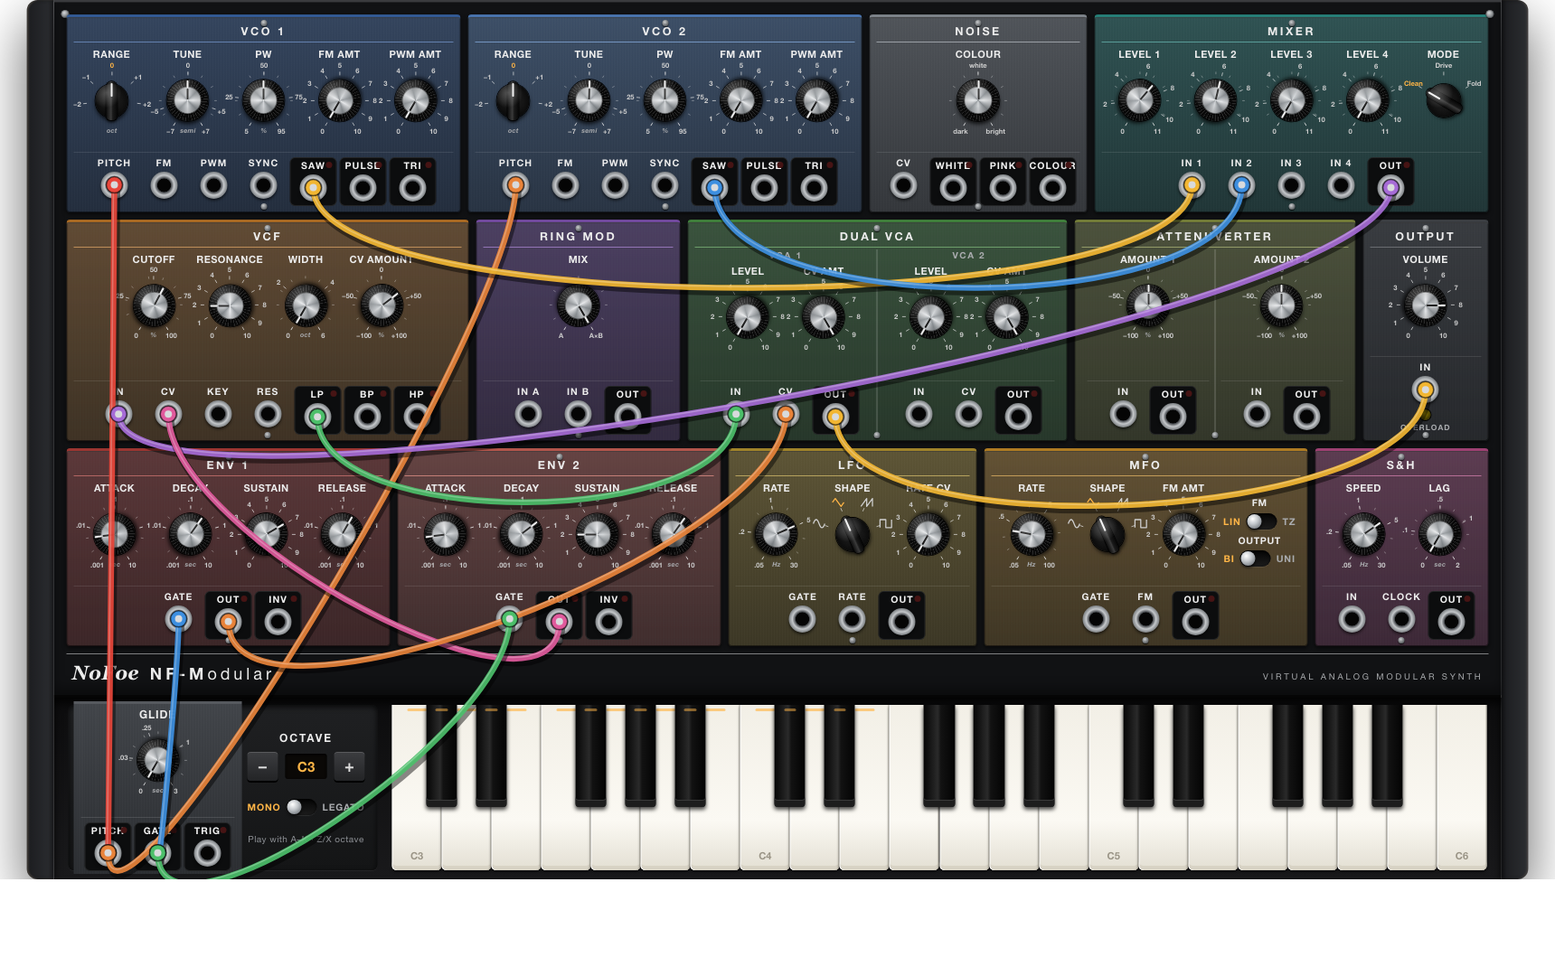
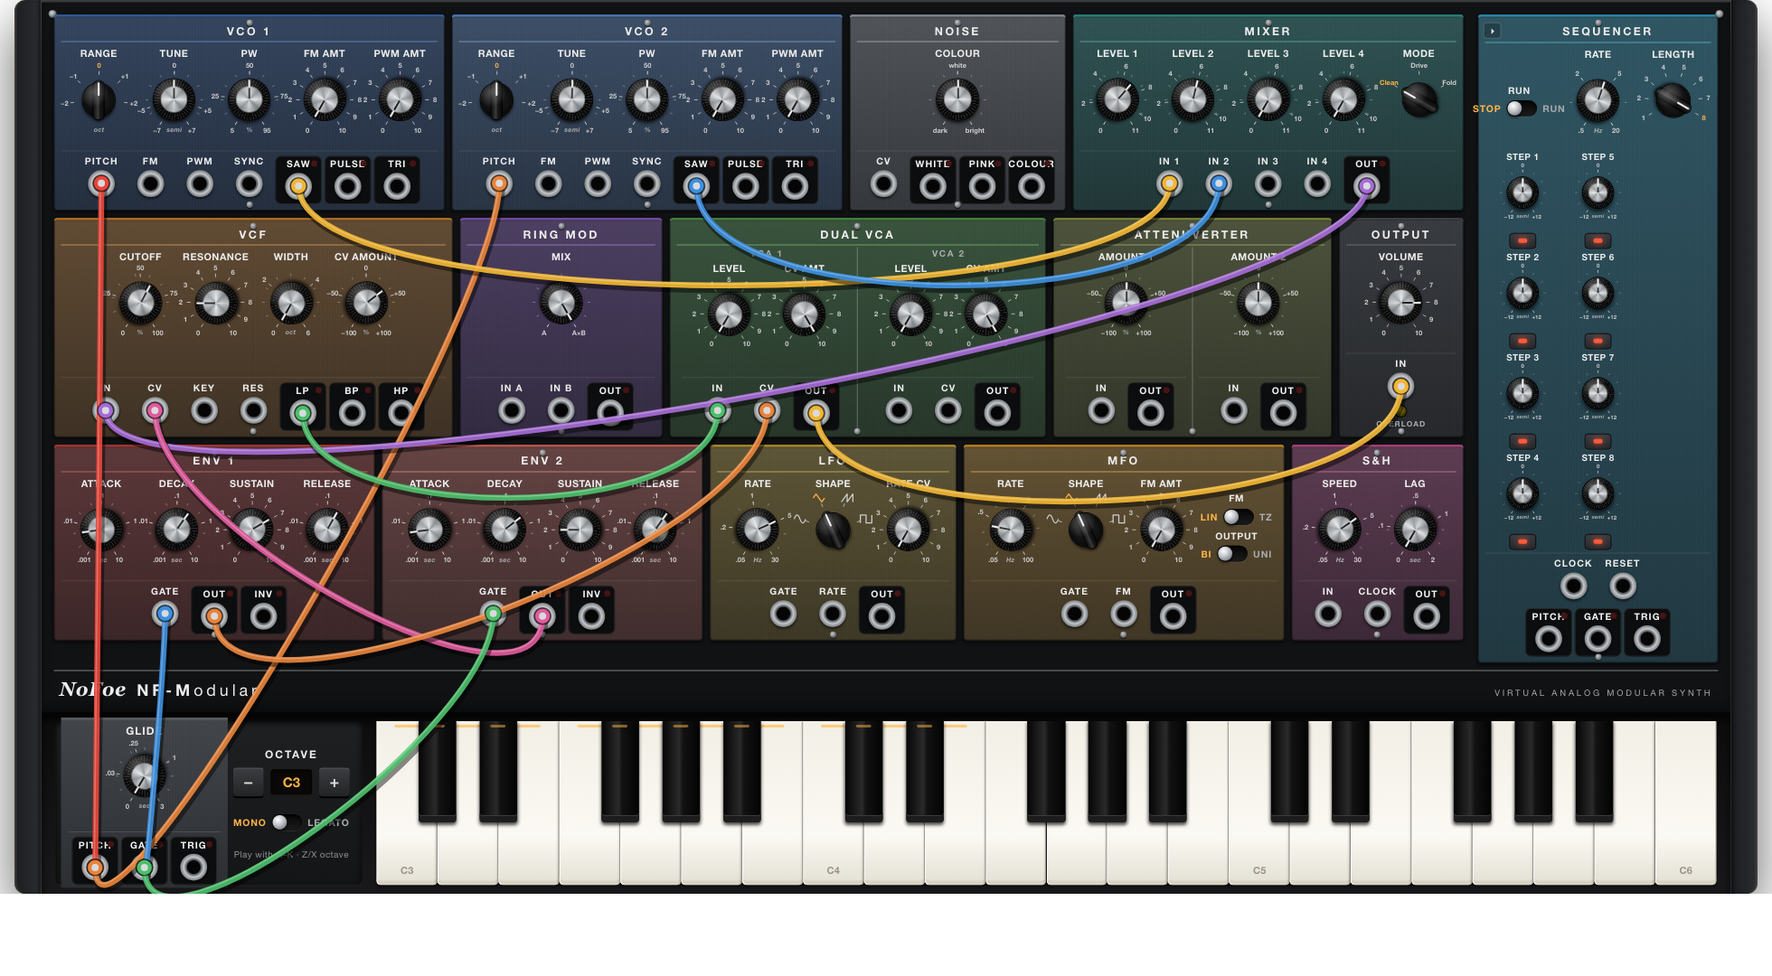
NF-Modular: an 8-step sequencer, in a folding column beside the rack
Eight steps of pitch (snapped to semitones) and on/off, Run/Stop, Rate (its own
clock), Length 1-8, Clock and Reset inputs, Pitch/Gate/Trig outputs; the playing
step lights up. It sits in a column the height of the rack's three rows, using
spare screen width, and folds to a thin strip (remembered). New Sequence preset;
help for every control. New panel pieces: side columns, foldable modules and lit
step buttons.

diff --git a/js/worklet/nfmod-processor.js b/js/worklet/nfmod-processor.js
@@ -100,7 +100,7 @@ class VCO {
 
 const OUTPUTS = ['kb.pitch', 'kb.gate', 'kb.trig', 'vco1.saw', 'vco1.sq', 'vco1.tri', 'vco2.saw', 'vco2.sq', 'vco2.tri',
   'noise.white', 'noise.pink', 'noise.col', 'mix.out', 'filt.out', 'filt.bp', 'filt.hp', 'env1.out', 'env1.inv', 'env2.out', 'env2.inv',
-  'lfo.out', 'lfo2.out', 'sh.out', 'vca1.out', 'vca2.out', 'ring.out', 'att.out1', 'att.out2'];
+  'lfo.out', 'lfo2.out', 'sh.out', 'vca1.out', 'vca2.out', 'ring.out', 'att.out1', 'att.out2', 'seq.pitch', 'seq.gate', 'seq.trig'];
 
 function lfoWave(shape, ph) {
   return shape === 'saw' ? 2 * ph - 1 : shape === 'square' ? (ph < 0.5 ? 1 : -1)
@@ -136,6 +136,7 @@ class NFModProcessor extends AudioWorkletProcessor {
     this.tolTune = [(Math.random() * 2 - 1) * TUNE_TOL, (Math.random() * 2 - 1) * TUNE_TOL];
     this.tolCut = Math.log2(tol(0.02)); this.tolLfo = tol(0.01); this.tolLfo2 = tol(0.01); this.tolSh = tol(0.01);
     this.drift = [0, 1].map(() => ({ v: (Math.random() * 2 - 1) * DRIFT_OCT, t: (Math.random() * 2 - 1) * DRIFT_OCT }));
+    this.seqStep = 0; this.seqPh = 0; this.seqClkWas = 0; this.seqRstWas = 0; this.seqTrig = 0; // sequencer
     this.over = 0; this.resets = 0; // how hard the output limiter is working; how often the rack reset itself
     this.shVal = 0; this.shOut = 0; this.shClockWas = 0; this.shPh = Math.random();
     this.colLp = 0; this.colHp = 0; this.colPrev = 0;
@@ -191,7 +192,7 @@ class NFModProcessor extends AudioWorkletProcessor {
     ['vco1.pitch', 'vco1.fm', 'vco1.pwm', 'vco1.sync', 'vco2.pitch', 'vco2.fm', 'vco2.pwm', 'vco2.sync',
       'mix.in1', 'mix.in2', 'mix.in3', 'mix.in4', 'filt.in', 'filt.cv', 'filt.key', 'filt.res',
       'env1.gate', 'env2.gate', 'lfo.gate', 'lfo.rate', 'lfo2.gate', 'lfo2.fm', 'sh.in', 'sh.clock',
-      'vca1.in', 'vca1.cv', 'vca2.in', 'vca2.cv', 'ring.a', 'ring.b', 'att.in1', 'att.in2', 'noise.cv', 'out.in'].forEach((k) => (J[k] = src(k)));
+      'vca1.in', 'vca1.cv', 'vca2.in', 'vca2.cv', 'ring.a', 'ring.b', 'att.in1', 'att.in2', 'noise.cv', 'seq.clock', 'seq.reset', 'out.in'].forEach((k) => (J[k] = src(k)));
     const read = (k) => {
       const a = J[k];
       if (a.length === 1) return o[a[0]];
@@ -217,6 +218,14 @@ class NFModProcessor extends AudioWorkletProcessor {
     const lfoShape = p['lfo.shape'], lfoRate = p['lfo.rate'] * this.tolLfo, lfoRcv = p['lfo.rcv'] * LFO_RATE_CV_OCTAVES;
     const vcas = [[p['vca1.level'], p['vca1.cv']], [p['vca2.level'], p['vca2.cv']]];
     const vol = p['out.vol'];
+    // sequencer: 8 steps, each a pitch (semitones, snapped) and on/off; Length steps are used
+    const seqRun = p['seq.run'] === 'run';
+    const seqLen = p['seq.len'] || 8;
+    const seqInc = (p['seq.rate'] || 4) / sr;
+    const seqPitch = [], seqOn = [];
+    for (let k = 1; k <= 8; k++) { seqPitch.push(Math.round(p[`seq.s${k}`] || 0) / 12); seqOn.push(p[`seq.g${k}`] !== 'off'); }
+    const seqExt = J['seq.clock'].length > 0;
+    const TRIG_N = Math.round(TRIG_SECONDS * sr);
     const lfo2Shape = p['lfo2.shape'], lfo2Rate = p['lfo2.rate'] * this.tolLfo2, lfo2Fm = p['lfo2.fm'] * 4, lfo2Tz = p['lfo2.fmmode'] === 'tz', lfo2Uni = p['lfo2.pol'] === 'uni';
     const mixMode = p['mix.mode'], att1 = p['att.a1'], att2 = p['att.a2'], ringMix = p['ring.mix'];
     // noise colour: below 0 a low-pass darkens it (down to ~150 Hz), above 0 a high-pass thins it (from 200 Hz up to ~10 kHz)
@@ -241,6 +250,34 @@ class NFModProcessor extends AudioWorkletProcessor {
       o['kb.gate'] = gate;
       o['kb.trig'] = this.trig > 0 ? 1 : 0;
       if (this.trig > 0) this.trig--;
+
+      // ---- sequencer. Its own clock (Rate) or, if something is patched into Clock, one step for
+      // each rise there. Reset sends it back to step 1. Stopped, it holds its step with the gate low.
+      let seqAdvance = false, seqHigh = false;
+      if (seqRun) {
+        if (seqExt) {
+          const clk = read('seq.clock');
+          seqAdvance = clk > 0.5 && this.seqClkWas <= 0.5;
+          this.seqClkWas = clk;
+          seqHigh = clk > 0.5;
+        } else {
+          this.seqPh += seqInc;
+          if (this.seqPh >= 1) { this.seqPh -= Math.floor(this.seqPh); seqAdvance = true; }
+          seqHigh = this.seqPh < 0.5; // the gate is high for the first half of each step
+        }
+      }
+      const rst = read('seq.reset');
+      if (rst > 0.5 && this.seqRstWas <= 0.5) { this.seqStep = -1; seqAdvance = true; this.seqPh = 0; }
+      this.seqRstWas = rst;
+      if (seqAdvance) {
+        this.seqStep = (this.seqStep + 1) % seqLen;
+        if (seqOn[this.seqStep]) this.seqTrig = TRIG_N;
+      }
+      if (this.seqStep >= seqLen) this.seqStep = 0;
+      o['seq.pitch'] = seqPitch[this.seqStep];
+      o['seq.gate'] = seqRun && seqHigh && seqOn[this.seqStep] ? 1 : 0;
+      o['seq.trig'] = this.seqTrig > 0 ? 1 : 0;
+      if (this.seqTrig > 0) this.seqTrig--;
 
       // ---- noise (white, and pink through a three-pole filter)
       const white = Math.random() * 2 - 1;
@@ -396,6 +433,7 @@ class NFModProcessor extends AudioWorkletProcessor {
         type: 'state', gate: this.notes.length > 0, note: this.note, target: this.target, fc: this.lastFc,
         a: this.env1.report(), f: this.env2.report(), lfo: o['lfo.out'], lfoT: this.lfoT, beat: 0,
         outs: { ...pk2, 'kb.pitch': pk2['kb.gate'] },
+        seqStep: this.seqStep, seqRun: seqRun,
         over: this.over, resets: this.resets, // for the Overload light, and a warning after a reset
       });
       this.over = 0;

diff --git a/js/synths/nfmod.js b/js/synths/nfmod.js
@@ -43,6 +43,9 @@ export const OUTPUTS = {
   'ring.out': { label: 'Out', module: 'Ring Mod' },
   'att.out1': { label: 'Out', module: 'Attenuverter 1' },
   'att.out2': { label: 'Out', module: 'Attenuverter 2' },
+  'seq.pitch': { label: 'Pitch', module: 'Sequencer' },
+  'seq.gate': { label: 'Gate', module: 'Sequencer' },
+  'seq.trig': { label: 'Trig', module: 'Sequencer' },
 };
 const fullName = (out) => (OUTPUTS[out] ? `${OUTPUTS[out].module} ${OUTPUTS[out].label}` : 'nothing');
 // an input can hold several cables (a comma-separated list): their signals are added together
@@ -130,6 +133,19 @@ export const PARAMS = {
 
   'out.vol': level('Volume', 0.8),
 
+  // sequencer: 8 steps of pitch (semitones, snapped to whole notes) and on/off, its own clock
+  // (Rate) unless something is patched into Clock, and a Length of 1-8 steps
+  'seq.run': toggle('Run', { v: 'stop', label: 'Stop' }, { v: 'run', label: 'Run' }, 'stop'),
+  'seq.rate': { type: 'cont', label: 'Rate', min: 0.5, max: 20, def: 4, curve: 'log', unit: 'Hz',
+    fmt: (v) => v.toFixed(v < 10 ? 1 : 0) + ' steps/s', marks: [[0.5, '.5'], [2, '2'], [5, '5'], [20, '20']] },
+  'seq.len': { type: 'step', label: 'Length', def: 8, span: 240,
+    options: [1, 2, 3, 4, 5, 6, 7, 8].map((n) => ({ v: n, label: String(n) })) },
+  ...Object.fromEntries([1, 2, 3, 4, 5, 6, 7, 8].flatMap((n) => [
+    [`seq.s${n}`, { type: 'cont', label: `Step ${n}`, min: -12, max: 12, def: 0, curve: 'lin', unit: 'semi', small: true,
+      fmt: (v) => { const r = Math.round(v); return (r > 0 ? '+' : '') + r + ' st'; }, marks: [[-12, '−12'], [0, '0'], [12, '+12']] }],
+    [`seq.g${n}`, { type: 'step', ui: 'led', label: `Step ${n} on`, def: 'on', options: [{ v: 'off', label: 'Off' }, { v: 'on', label: 'On' }] }],
+  ])),
+
   // ---- input jacks, with the starting patch: two detuned saws, mixed, filtered, with an
   // envelope on the VCA and a second envelope opening the filter
   'jack.vco1.pitch': jack('Pitch', 'kb.pitch'), 'jack.vco1.fm': jack('FM'), 'jack.vco1.pwm': jack('PWM'), 'jack.vco1.sync': jack('Sync'),
@@ -145,6 +161,7 @@ export const PARAMS = {
   'jack.env1.gate': jack('Gate', 'kb.gate'), 'jack.env2.gate': jack('Gate', 'kb.gate'),
   'jack.lfo.gate': jack('Gate'), 'jack.lfo.rate': jack('Rate'), 'jack.lfo2.gate': jack('Gate'), 'jack.lfo2.fm': jack('FM'),
   'jack.sh.in': jack('In'), 'jack.sh.clock': jack('Clock'),
+  'jack.seq.clock': jack('Clock'), 'jack.seq.reset': jack('Reset'),
 };
 
 // Panel: a rack of three rows (sources, shaping, modulation). Each module has one row of knobs
@@ -185,6 +202,17 @@ export const LAYOUT = [
 ];
 // (no title: the keyboard section is plainly the keyboard's; it holds Glide and the keyboard's jacks.
 // Mono/Legato (kb.mode) is placed by main.js where the Keyboard Range switch would be.)
+// The sequencer stands in its own column to the right of the rack, the height of all three rows
+// (the rack is wider than tall screens need, so this uses spare width). It can fold away.
+// Steps run down the left column (1-4) then the right (5-8); each is a pitch knob over an on/off light.
+export const SIDE_SECTIONS = [{
+  id: 'seq', title: 'Sequencer', foldable: true,
+  rows: [['seq.run', 'seq.rate', 'seq.len'],
+    [['seq.s1', 'seq.g1'], ['seq.s5', 'seq.g5'], null], [['seq.s2', 'seq.g2'], ['seq.s6', 'seq.g6'], null],
+    [['seq.s3', 'seq.g3'], ['seq.s7', 'seq.g7'], null], [['seq.s4', 'seq.g4'], ['seq.s8', 'seq.g8'], null]],
+  jacks: [['jack.seq.clock', 'jack.seq.reset'], ['out:seq.pitch', 'out:seq.gate', 'out:seq.trig']],
+}];
+
 export const KEYBED_SECTIONS = [{ id: 'kb', title: '', rows: [['kb.glide']], jacks: [['out:kb.pitch', 'out:kb.gate', 'out:kb.trig']] }];
 
 // ---- factory patches: what differs from the starting patch --------------------------------
@@ -274,6 +302,13 @@ export const PRESETS = {
     'kb.mode': 'legato', 'kb.glide': 0.12, 'osc2.range': 1, 'osc2.tune': 0.05, 'vcf.cutoff': 1800, 'vcf.res': 0.35, 'vcf.cv': 0.3,
     'env1.a': 0.02, 'env1.s': 0.85, 'env1.r': 0.3, 'env2.d': 0.8, 'env2.s': 0.4,
   },
+  // the sequencer plays both VCOs and both envelopes: no keyboard needed
+  'Sequence': {
+    ...cable('vco1.pitch', 'seq.pitch'), ...cable('vco2.pitch', 'seq.pitch'), ...cable('env1.gate', 'seq.gate'), ...cable('env2.gate', 'seq.gate'),
+    'seq.run': 'run', 'seq.rate': 5, 'osc1.range': -1, 'osc2.range': -1,
+    'seq.s1': 0, 'seq.s2': 0, 'seq.s3': 12, 'seq.s4': 0, 'seq.s5': 3, 'seq.s6': 0, 'seq.s7': 7, 'seq.s8': 10, 'seq.g4': 'off',
+    'vcf.cutoff': 300, 'vcf.res': 0.55, 'vcf.cv': 0.6, 'env2.d': 0.18, 'env2.s': 0, 'env1.d': 0.25, 'env1.s': 0.2, 'env1.r': 0.1,
+  },
   'Pitch Drop Drum': {
     ...cable('vco1.fm', 'env2.out'), ...cable('mix.in2', ''), ...cable('vco1.pitch', ''), 'osc1.range': -1, 'osc1.fm': 0.7,
     'env1.a': 0.001, 'env1.d': 0.35, 'env1.s': 0, 'env1.r': 0.3, 'env2.a': 0.001, 'env2.d': 0.12, 'env2.s': 0, 'vcf.cutoff': 3000, 'vcf.cv': 0,
@@ -297,5 +332,5 @@ export const NFMOD = {
     tagline: 'The full rack',
     text: 'A full virtual analog rack: fifteen modules for advanced patching.',
   },
-  PARAMS, LAYOUT, KEYBED_SECTIONS, PRESETS,
+  PARAMS, LAYOUT, KEYBED_SECTIONS, SIDE_SECTIONS, PRESETS,
 };

diff --git a/js/main.js b/js/main.js
@@ -1,7 +1,8 @@
-import { PARAMS, LAYOUT, KEYBED_SECTIONS, FX_SECTIONS, ALL_SECTIONS, defaultPatch, updateAlts, SYNTH, nameHtml } from './params.js';
+import { PARAMS, LAYOUT, KEYBED_SECTIONS, FX_SECTIONS, SIDE_SECTIONS, ALL_SECTIONS, defaultPatch, updateAlts, SYNTH, nameHtml } from './params.js';
 import { Knob } from './knob.js';
 import { Toggle } from './toggle.js';
 import { Wheel } from './wheel.js';
+import { LedButton } from './ledbutton.js';
 import { StartMenu } from './startMenu.js';
 import { Engine } from './engine.js';
 import { Scope, TIMEBASES } from './scope.js';
@@ -38,6 +39,25 @@ function buildSection(sec) {
   el.innerHTML = `<div class="section-title"${titleHelp}><span>${sec.title}</span></div><div class="section-grid"></div><div class="lock-veil"><span>LOCKED</span></div>`;
   const grid = el.querySelector('.section-grid');
   sections[sec.id] = el;
+  // a module that can fold away to a thin strip (the sequencer): a button in its title bar
+  if (sec.foldable) {
+    const fb = document.createElement('button');
+    fb.className = 'fold-btn';
+    fb.dataset.help = 'foldmodule';
+    el.querySelector('.section-title').prepend(fb);
+    const key = `${SYNTH.id}.fold.${sec.id}`;
+    const setFold = (on) => {
+      el.classList.toggle('folded', on);
+      fb.textContent = on ? '◂' : '▸';
+      fb.setAttribute('aria-label', on ? `Open the ${sec.title}` : `Fold the ${sec.title} away`);
+      try { localStorage.setItem(key, on ? '1' : '0'); } catch { /* storage unavailable */ }
+      requestAnimationFrame(() => { if (typeof fit === 'function') fit(); });
+    };
+    fb.addEventListener('click', (e) => { e.stopPropagation(); setFold(!el.classList.contains('folded')); });
+    let folded = false;
+    try { folded = localStorage.getItem(key) === '1'; } catch { /* storage unavailable */ }
+    setFold(folded);
+  }
   // A module split into side-by-side halves with a line between them (the NF-Modular's Dual
   // VCA): each part has its own knobs and jacks.
   if (sec.parts) {
@@ -65,6 +85,7 @@ function buildSection(sec) {
 function makeControl(id, sec) {
   const spec = PARAMS[id];
   const k = spec.ui === 'toggle' ? new Toggle(id, patch[id], onKnob)
+    : spec.ui === 'led' ? new LedButton(id, patch[id], onKnob)
     : spec.type === 'wheel' ? new Wheel(id, patch[id], onKnob)
     : new Knob(id, patch[id], onKnob);
   knobs[id] = k;
@@ -116,12 +137,17 @@ function buildPanel() {
   // A rack (NF-Modular): LAYOUT is rows of modules, each row stretched across the full width.
   if (SYNTH.rack) {
     root.classList.add('rack');
+    // rows of modules, with any side column (the sequencer) beside them, full height
+    const rowsBox = document.createElement('div');
+    rowsBox.className = 'rack-rows';
     LAYOUT.forEach((row) => {
       const r = document.createElement('div');
       r.className = 'rack-row';
       row.forEach((sec) => r.appendChild(buildSection(sec)));
-      root.appendChild(r);
+      rowsBox.appendChild(r);
     });
+    root.appendChild(rowsBox);
+    SIDE_SECTIONS.forEach((sec) => { const el = buildSection(sec); el.classList.add('rack-side'); root.appendChild(el); });
     const perf = document.getElementById('perf-sections');
     KEYBED_SECTIONS.forEach((sec) => perf.appendChild(buildSection(sec)));
     const fx = document.getElementById('fx-sections');
@@ -547,6 +573,14 @@ if (cables) {
     requestAnimationFrame(lamps);
     const live = engine.running && engine.live;
     cables.showLevels(live ? live.outs : null);
+    // the sequencer's current step lights up while it runs
+    if (sections.seq) {
+      const cur = live && live.seqRun ? live.seqStep + 1 : 0;
+      for (let n = 1; n <= 8; n++) {
+        const cell = knobs[`seq.s${n}`] && knobs[`seq.s${n}`].el.parentNode;
+        if (cell) cell.classList.toggle('current', n === cur);
+      }
+    }
     if (overLamp) {
       const level = live ? Math.min(1, Math.max(0, ((live.over || 0) - 0.7) / 1.3)) : 0;
       overShown = Math.max(level, overShown * 0.93);

diff --git a/js/help.js b/js/help.js
@@ -674,6 +674,25 @@ export const HELP_NFMOD = {
   'jack.lfo2.fm': { title: 'MFO: FM input', body: ['Pushes the MFO\'s speed up and down by the signal here, scaled by FM Amount.'] },
   'out:lfo2.out': { title: 'MFO: Out', body: ['The MFO\'s wave: −1 to 1, or 0 to 1 with the Output switch on Uni.'] },
 
+  // ---- sequencer
+  'section:seq': { title: 'Sequencer', body: [
+    'Plays a repeating pattern of up to 8 notes by itself. Each step has a pitch (its knob, in semitones) and can be switched on or off (its light). It sends out Pitch, Gate and Trig, just like the keyboard: patch them where you would patch the keyboard\'s.',
+    'Run starts it. Rate sets its speed, unless something is patched into Clock: then it moves one step for every rise there. Length sets how many of the 8 steps it uses; Reset sends it back to step 1. The step playing now lights up.'],
+    tip: 'Patch Sequencer Pitch into both VCOs\' Pitch inputs and Sequencer Gate into both envelopes\' Gate inputs, then press Run. (The Sequence preset does exactly this.)' },
+  'seq.run': { title: 'Run / Stop', body: ['Starts and stops the sequencer. Stopped, it holds its place with the Gate low.'] },
+  'seq.rate': { title: 'Rate', body: ['How many steps it plays each second, when nothing is patched into Clock. At 4 steps a second, 8 steps take two seconds; 8 steps a second is quick.'] },
+  'seq.len': { title: 'Length', body: ['How many of the 8 steps it plays before starting again. Odd lengths (3, 5, 7) against an even rhythm elsewhere make patterns that drift in and out of line.'] },
+  ...Object.fromEntries([1, 2, 3, 4, 5, 6, 7, 8].flatMap((n) => [
+    [`seq.s${n}`, { title: `Step ${n}: pitch`, body: ['The note this step plays, in semitones up or down from the VCOs\' own pitch (snapped to whole semitones, so it is always in tune). +12 is an octave up.'] }],
+    [`seq.g${n}`, { title: `Step ${n}: on / off`, body: ['Lit: this step plays a note. Dark: it is a rest (the Gate stays low), which is how you make rhythms.'] }],
+  ])),
+  'jack.seq.clock': { title: 'Sequencer: Clock input', body: ['Each rise here moves the sequencer on one step, instead of its Rate knob. A square LFO gives a steady clock; the Keyboard\'s Trig moves it one step per key you press.'] },
+  'jack.seq.reset': { title: 'Sequencer: Reset input', body: ['A rise here sends it back to step 1.'] },
+  'out:seq.pitch': { title: 'Sequencer: Pitch output', body: ['The current step\'s note, at 1 volt per octave: patch it into a VCO\'s Pitch input.'] },
+  'out:seq.gate': { title: 'Sequencer: Gate output', body: ['High for the first half of each step that is switched on: patch it into an envelope\'s Gate input.'] },
+  'out:seq.trig': { title: 'Sequencer: Trig output', body: ['A short pulse at the start of every step that is on: good for clocking the S&H, or restarting an LFO.'] },
+  foldmodule: { title: 'Fold away', body: ['Folds this module to a thin strip to give the rest of the rack more room (its cables are hidden while it is folded). Click again to open it.'] },
+
   // ---- S&H
   'section:sh': { title: 'S&H (Sample and Hold)', body: [
     'On each clock, it measures (samples) whatever is at its In and holds that value steady until the next clock, turning a moving signal into a staircase of steps. With nothing in In it samples noise, so every step is a new random value.',

diff --git a/css/synth.css b/css/synth.css
@@ -1213,3 +1213,42 @@ body[data-skin="classic"] .perf { background: linear-gradient(#22172b, #170f1d);
 .graph-pop.left { right: auto; left: 16px; }
 .graph-pop canvas { width: 100%; height: 100%; border-radius: 7px; display: block; }
 body.preview .graph-pop { display: none; }
+
+/* ==========================================================================
+   NF-Modular sequencer: a column beside the rack rows, full height; folds to a thin strip
+   ========================================================================== */
+.panel-sections.rack { flex-direction: row; align-items: stretch; }
+.rack-rows { display: flex; flex-direction: column; gap: 8px; flex: 1 1 auto; }
+.rack-side { flex: none; margin-left: 8px; display: flex; flex-direction: column; }
+body[data-skin="modular"] .section[data-section="seq"] { --mod: #2fa6c9; } /* Sequencer: cyan */
+.rack-side .section-grid { row-gap: 0; }
+.rack-side .jack-rows { margin-top: auto; }
+/* each step: a small pitch knob over its on/off light; the playing step glows */
+.rack-side .stack-cell { gap: 0; border-radius: 8px; padding: 0 0 3px; transition: background 0.08s; }
+.rack-side .stack-cell.current { background: rgba(47, 166, 201, 0.28); box-shadow: 0 0 0 1px rgba(120, 220, 255, 0.5); }
+body .rack-side .knob-cell.small { width: 84px; padding-top: 0; }
+body .rack-side .knob-cell.small .knob-label { font-size: 10px; height: 13px; }
+body .rack-side .knob-cell.small .dial { width: 74px; height: 74px; zoom: 1; margin-top: -4px; }
+body .rack-side .knob-cell.small .knob { width: 34px; height: 34px; margin: -17px 0 0 -17px; }
+body .rack-side .knob-cell.small .knob-cap { inset: 6px; }
+body .rack-side .knob-cell.small .knob-pointer { height: 9px; top: 2px; width: 2px; margin-left: -1px; }
+body .rack-side .knob-cell.small .knob-value { font-size: 10.5px; height: 14px; margin-top: -6px; }
+.led-cell { display: flex; justify-content: center; }
+.led-btn {
+  width: 30px; height: 18px; border-radius: 4px; cursor: pointer; padding: 0;
+  border: 1px solid #0b0b0c; background: linear-gradient(#3a3d42, #25272b);
+  display: grid; place-items: center; box-shadow: 0 1px 0 rgba(255,255,255,0.08);
+}
+.led-lamp { width: 10px; height: 5px; border-radius: 2px; background: #3a1c18; }
+.led-btn.on .led-lamp { background: #ff5a3a; box-shadow: 0 0 8px rgba(255, 90, 58, 0.9); }
+/* the fold button, in the module's title bar */
+.fold-btn {
+  float: left; width: 20px; height: 18px; margin: -2px 4px 0 -2px; padding: 0; border-radius: 4px; cursor: pointer;
+  border: 1px solid rgba(255,255,255,0.18); background: rgba(0,0,0,0.25); color: var(--ink); font-size: 11px; line-height: 16px;
+}
+.fold-btn:hover { background: rgba(255,255,255,0.12); }
+/* folded: a thin strip with the name running down it */
+.section.folded { width: 40px; padding-left: 4px !important; padding-right: 4px !important; }
+.section.folded .section-grid, .section.folded .jack-rows, .section.folded .jack-strip { display: none; }
+.section.folded .section-title { border-bottom: none; writing-mode: vertical-rl; margin: 4px auto 0; padding: 0; }
+.section.folded .fold-btn { float: none; margin: 0 0 8px; writing-mode: horizontal-tb; }

diff --git a/js/ledbutton.js b/js/ledbutton.js
@@ -1,0 +1,35 @@
+// A small square push button with a light, for on/off settings that need to be compact
+// (the sequencer's step on/off buttons). Behaves like a control: set() and commit().
+
+import { PARAMS } from './params.js';
+
+export class LedButton {
+  constructor(id, value, onChange) {
+    this.id = id;
+    this.spec = PARAMS[id];
+    this.onChange = onChange;
+    this.el = document.createElement('div');
+    this.el.className = 'led-cell';
+    this.el.dataset.param = id;
+    this.el.dataset.help = id;
+    this.btn = document.createElement('button');
+    this.btn.className = 'led-btn';
+    this.btn.setAttribute('aria-label', this.spec.label);
+    this.btn.innerHTML = '<span class="led-lamp"></span>';
+    this.btn.addEventListener('click', () => this.commit(this.value === 'on' ? 'off' : 'on'));
+    this.el.appendChild(this.btn);
+    this.set(value);
+  }
+
+  set(value) {
+    this.value = value;
+    this.btn.classList.toggle('on', value === 'on');
+    this.btn.setAttribute('aria-pressed', String(value === 'on'));
+  }
+
+  commit(value) {
+    if (value === this.value) return;
+    this.set(value);
+    this.onChange(this.id, value);
+  }
+}

diff --git a/js/params.js b/js/params.js
@@ -19,7 +19,8 @@ export const LAYOUT = SYNTH.LAYOUT;
 export const KEYBED_SECTIONS = SYNTH.KEYBED_SECTIONS;
 export const PRESETS = SYNTH.PRESETS;
 export { FX_SECTIONS };
-export const ALL_SECTIONS = [...LAYOUT.flat(), ...KEYBED_SECTIONS, ...FX_SECTIONS];
+export const SIDE_SECTIONS = SYNTH.SIDE_SECTIONS || []; // the NF-Modular's sequencer column
+export const ALL_SECTIONS = [...LAYOUT.flat(), ...SIDE_SECTIONS, ...KEYBED_SECTIONS, ...FX_SECTIONS];
 
 // A synth name for display: capitals (and digits) bold, lower-case letters lighter,
 // e.g. NiniFoog -> bold N and F.

diff --git a/js/startMenu.js b/js/startMenu.js
@@ -7,7 +7,7 @@ import { SYNTHS, SYNTH, SYNTH_CHOSEN, nameHtml } from './params.js';
 
 // Changed by tools/make-previews.sh each time the pictures are re-captured, so browsers fetch
 // the new pictures instead of showing ones they have kept from before.
-const PREVIEW_VERSION = '202611242142';
+const PREVIEW_VERSION = '202611242223';
 
 export class StartMenu {
   constructor({ skip = false } = {}) {
